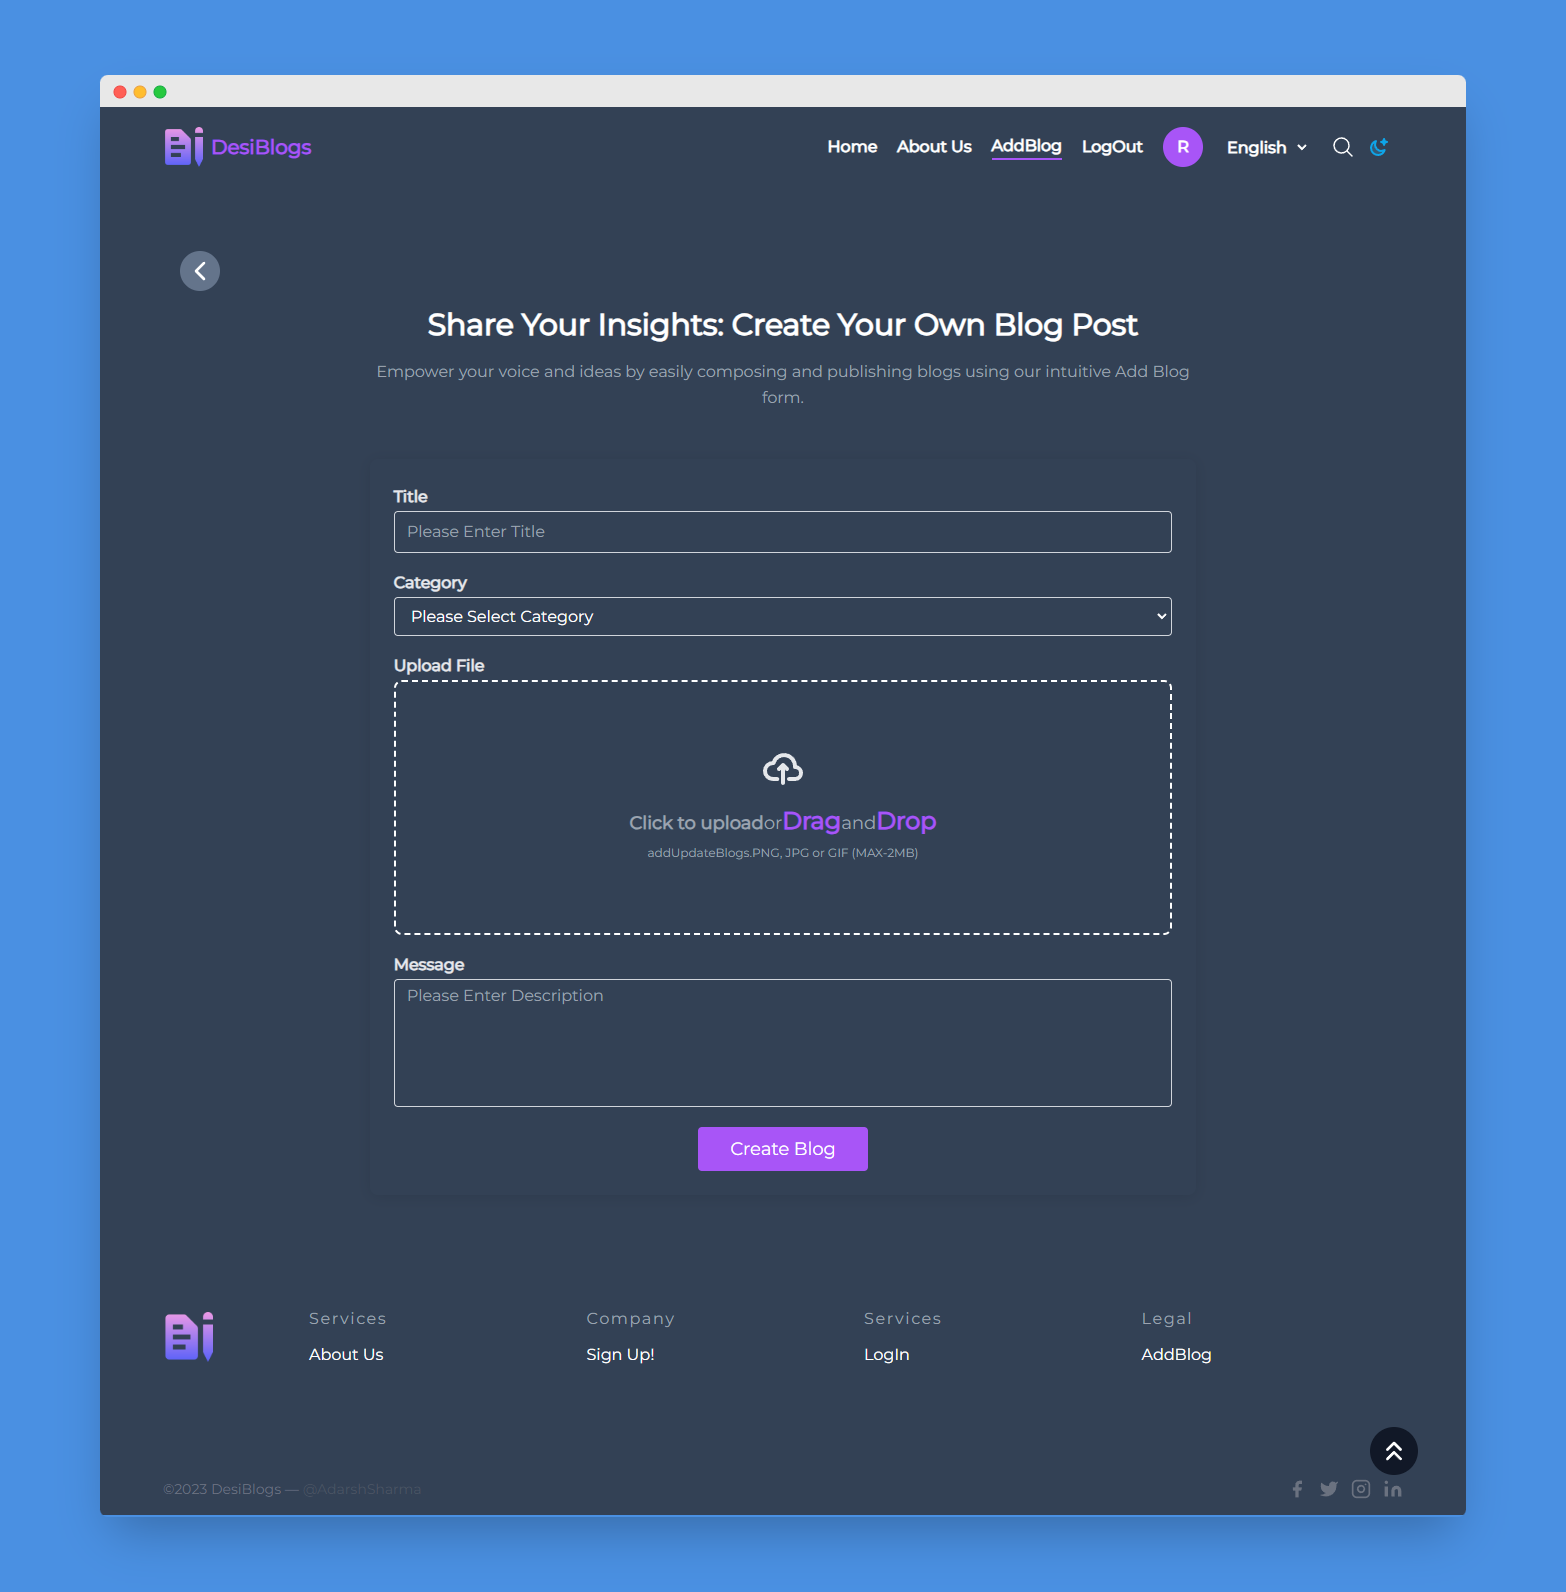
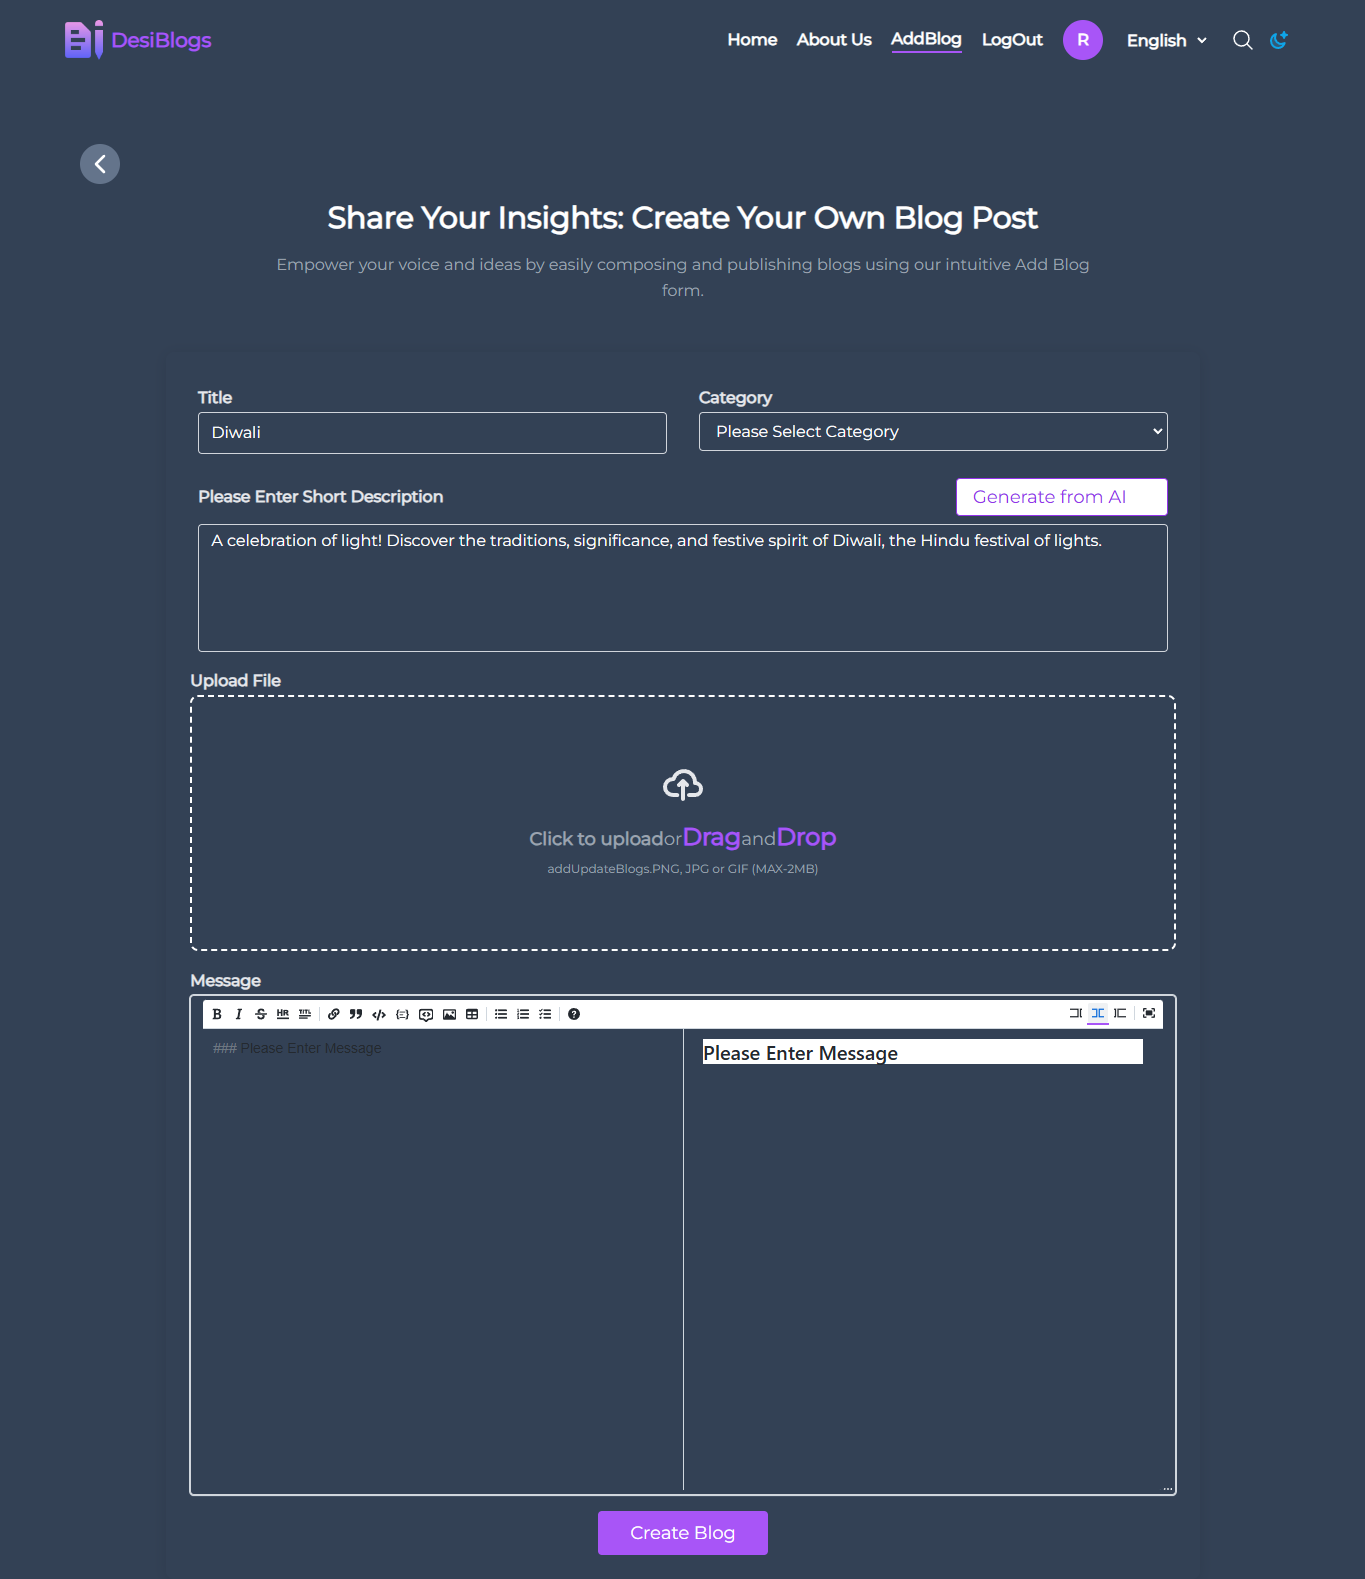
fix: Short Description and  Markdown new Images

diff --git a/src/components/BookMarkBlog.jsx b/src/components/BookMarkBlog.jsx
@@ -7,7 +7,7 @@ import { useTranslation } from "react-i18next";
 import { useParams } from "react-router-dom";
 const BookMarkBlog = () => {
   const [blogs, setBlogs] = useState();
-  const {userId} = useParams();
+  const { userId } = useParams();
   const { t } = useTranslation();
   useEffect(() => {
     const getBlogs = async () => {
@@ -23,10 +23,12 @@ const BookMarkBlog = () => {
     getBlogs();
   }, []);
 
-  const filteredBlogs = Array.from(new Set(blogs?.map(a => a.id))).map(id => {
-    return blogs?.find(a => a.id === id);
-});
-// console.log(uniqueData)
+  const filteredBlogs = Array.from(new Set(blogs?.map((a) => a.id))).map(
+    (id) => {
+      return blogs?.find((a) => a.id === id);
+    }
+  );
+  // console.log(uniqueData)
 
   return (
     <>
@@ -55,8 +57,15 @@ const BookMarkBlog = () => {
           >
             {filteredBlogs?.length !== 0 ? (
               filteredBlogs?.map((blog) => {
-                const { title, category, shortDescription, $id, imageUrl, userId,date } =
-                  blog;
+                const {
+                  title,
+                  category,
+                  shortDescription,
+                  $id,
+                  imageUrl,
+                  userId,
+                  date,
+                } = blog;
                 return (
                   <BlogCard
                     title={title}

diff --git a/src/components/AddBlog.jsx b/src/components/AddBlog.jsx
@@ -10,6 +10,7 @@ import BackButton from "../utils/BackButton";
 import { useTranslation } from "react-i18next";
 import MDEditor from "@uiw/react-md-editor";
 import { Bars } from "react-loader-spinner";
+import { AIChatSession } from "../service/AIModel";
 const AddBlog = () => {
   const uId = useId();
   const navigate = useNavigate();
@@ -321,7 +322,7 @@ const AddBlog = () => {
 
                 <textarea
                   id={uId}
-                  name="description"
+                  name="shortDescription"
                   className="w-full bg-gray-100 bg-opacity-50 rounded border border-gray-300 focus:border-purple-500 focus:bg-white focus:ring-2 focus:ring-purple-200 h-32 text-base outline-none text-gray-700 py-1 px-3 resize-none leading-6 transition-colors duration-200 ease-in-out dark:bg-slate-700 dark:text-white"
                   data-gramm="false"
                   wt-ignore-input="true"
@@ -329,7 +330,7 @@ const AddBlog = () => {
                     "addUpdateBlogs.Please Enter Short Description"
                   )}
                   value={shortDescription}
-                  onChange={blogHandle}
+                  onChange={(e)=>setShortDescription(e.target.value)}
                 ></textarea>
 
                 {shortDescriptionErr && (

diff --git a/src/components/UpdateBlog.jsx b/src/components/UpdateBlog.jsx
@@ -380,7 +380,7 @@ const UpdateBlog = () => {
 
                   <textarea
                     id={uId}
-                    name="description"
+                    name="shortDescription"
                     className="w-full bg-gray-100 bg-opacity-50 rounded border border-gray-300 focus:border-purple-500 focus:bg-white focus:ring-2 focus:ring-purple-200 h-32 text-base outline-none text-gray-700 py-1 px-3 resize-none leading-6 transition-colors duration-200 ease-in-out dark:bg-slate-700 dark:text-white"
                     data-gramm="false"
                     wt-ignore-input="true"
@@ -388,7 +388,7 @@ const UpdateBlog = () => {
                       "addUpdateBlogs.Please Enter Short Description"
                     )}
                     value={shortDescription}
-                    onChange={blogHandle}
+                    onChange={(e) => setShortDescription(e.target.value)}
                   ></textarea>
 
                   {shortDescriptionErr && (
